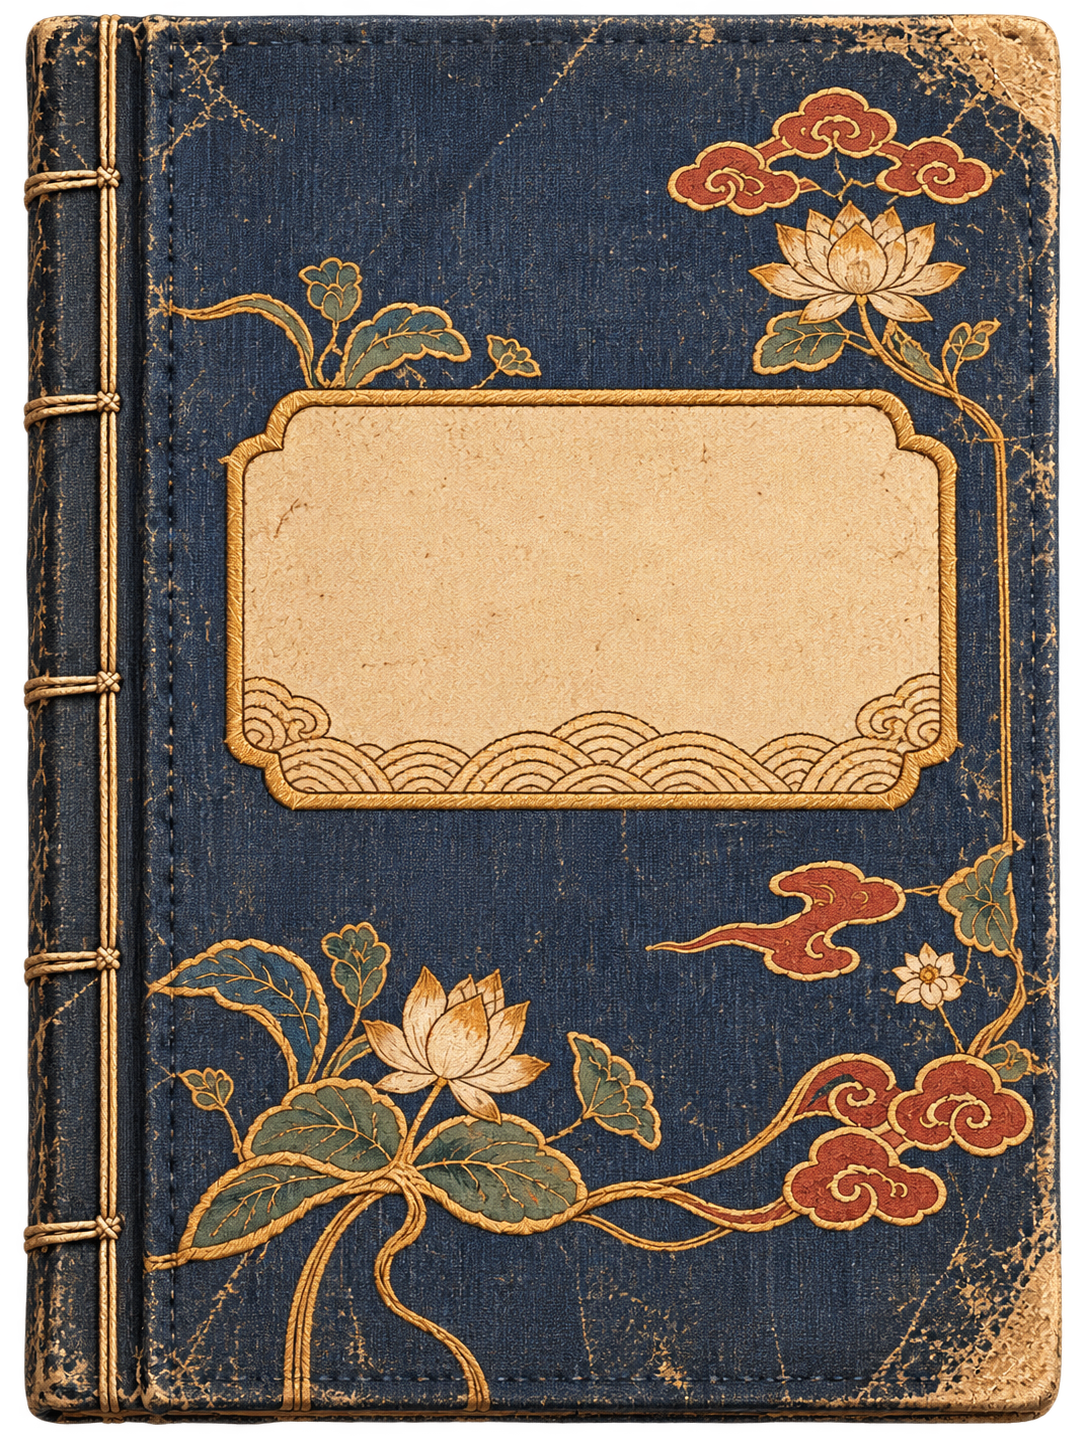
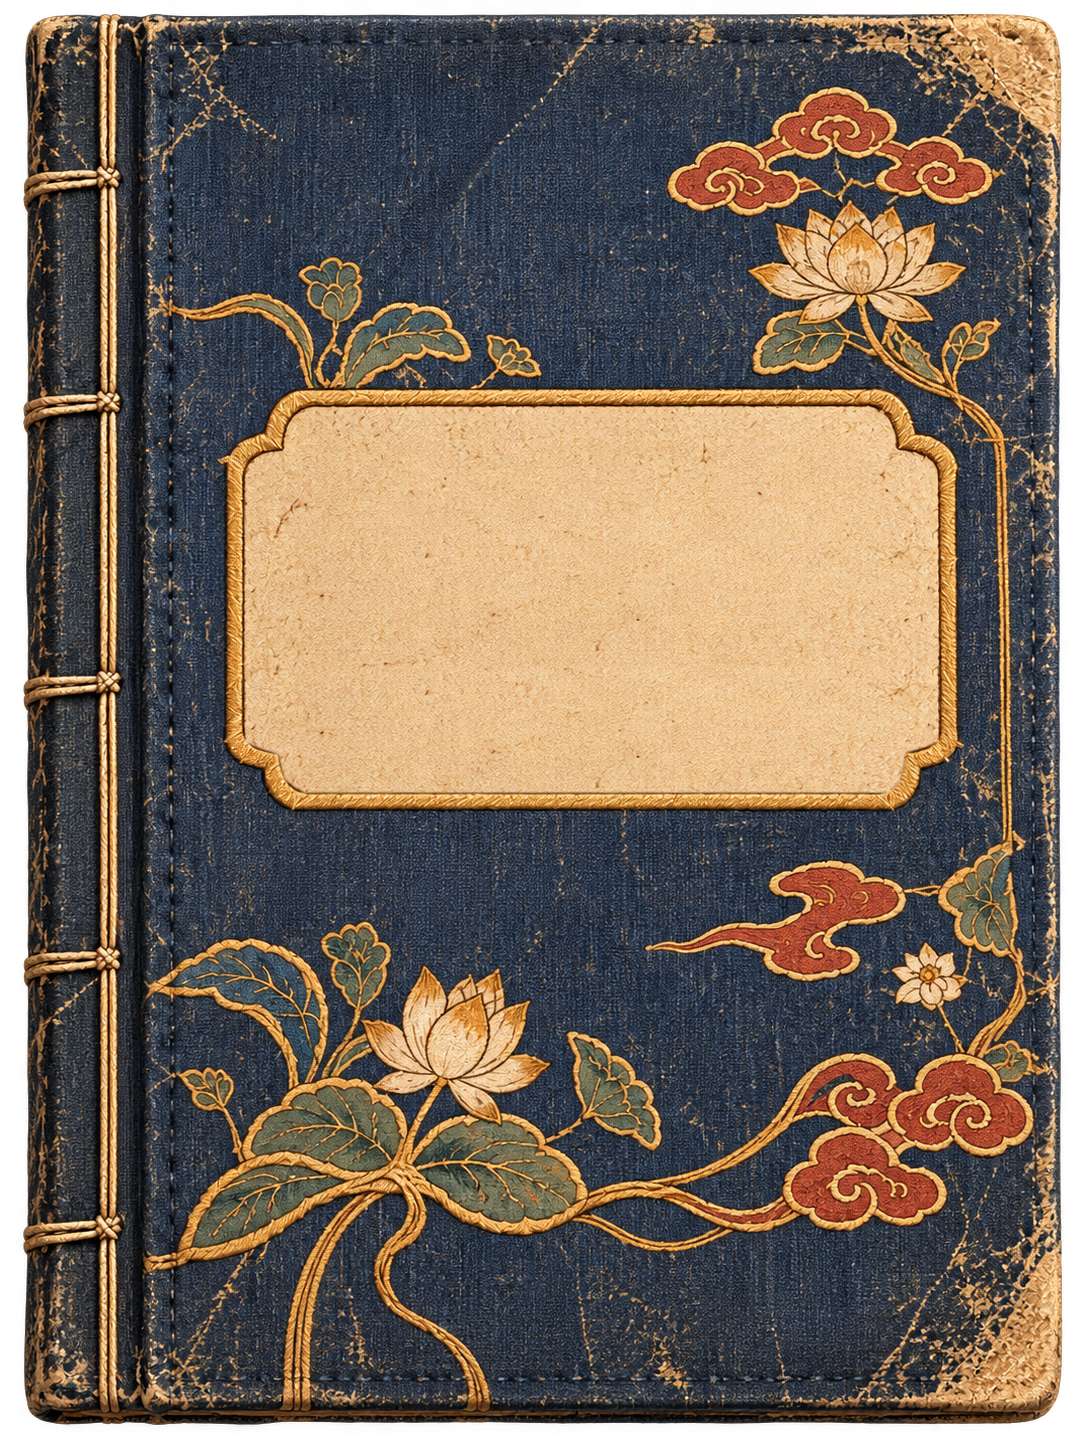
Opening S08 and book cover: remove seigaiha wave band from the label (#7)
The wave band inside the cover label read as Japanese seigaiha. It is
painted over with the label's own cream paper, so the rest of both images
is pixel-identical and the label position in BookCover.tsx is unchanged.
S05's red áo closure is kept: in the three-quarter view the straight
run of buttons is the side seam. ART_PROMPTS adds seigaiha to AVOID and
renumbers the duplicate section 9 to 12.

Changed region(s): [[0.2127, 0.4662, 0.8812, 0.5594]]

diff --git a/frontend/docs/ART_PROMPTS.md b/frontend/docs/ART_PROMPTS.md
@@ -25,7 +25,7 @@ Modern full-color comic illustration for a Vietnamese storybook. Clean, confiden
 ```
 
 ```
-AVOID: any text, letters, numbers, captions, logos or watermarks; Chinese, Japanese or Korean traditional clothing, hairstyles or architecture (no hanfu cross collars, no kimono or obi, no hanbok, no pagoda roofs with upturned Chinese-style eaves unless specified; no Chinese frog buttons or knotted "pankou" closures; no Chinese mandarin-collar jackets or qipao styling); 3D render look; photorealism; neon colors; heavy black outlines; cluttered backgrounds.
+AVOID: any text, letters, numbers, captions, logos or watermarks; Chinese, Japanese or Korean traditional clothing, hairstyles or architecture (no hanfu cross collars, no kimono or obi, no hanbok, no pagoda roofs with upturned Chinese-style eaves unless specified; no Chinese frog buttons or knotted "pankou" closures; no Chinese mandarin-collar jackets or qipao styling; no Japanese seigaiha overlapping-semicircle wave pattern); 3D render look; photorealism; neon colors; heavy black outlines; cluttered backgrounds.
 ```
 
 | Màu | Mã | Dùng cho |
@@ -159,7 +159,7 @@ Tỉ lệ 3:4 · file: frontend/public/book/cover.png
 Front cover of an old hand-made seamstress's notebook, seen straight on, filling the frame.
 Cover material: faded indigo linen cloth, slightly worn corners, a few loose threads.
 Decoration: delicate gold-thread embroidery border of small lotus leaves, sewing scissors and a spool of thread; a small sky-blue fabric swatch stitched onto the lower right corner.
-Center area: a plain embroidered rectangular label frame left EMPTY for the title (no text).
+Center area: a plain embroidered rectangular label frame left EMPTY for the title (no text, no wave or other pattern inside the label).
 A cream ribbon bookmark hangs from the bottom edge. Soft warm light from the upper left.
 ```
 
@@ -527,7 +527,7 @@ Color: {màu mặc định}. No person, no accessories, no text.
 - Màu nằm trong bảng màu Mục 1; chỗ trống cho chữ và bong bóng thoại đúng vị trí.
 - Đã lưu prompt + ảnh được chọn vào tab Tổng hợp Prompt.
 
-## 9. Tạo lại ảnh Opening S05 và S08 (ticket #7)
+## 12. Tạo lại ảnh Opening S05 và S08 (ticket #7)
 
 Hai ảnh hiện tại có yếu tố Trung Hoa, mâu thuẫn với chính thông điệp của app:
 - `s05.png`: áo đỏ trên ma-nơ-canh và áo đang may có **khuy tết kiểu áo Tàu** (frog buttons). Áo của Bà và của Tí cũng dùng kiểu khuy này.
@@ -542,7 +542,7 @@ Hai ảnh hiện tại có yếu tố Trung Hoa, mâu thuẫn với chính thôn
 4. Người phụ trách nội dung soát theo checklist bên dưới và đối chiếu Research 6.2 trước khi thay file.
 5. Thay `frontend/public/opening/s05.png`, `s08.png`, rồi bỏ ⚠ của S05 và S08 trong bảng ở `OPENING_PLAN.md`.
 
-### 9.1 S05 — Tiếng máy may bên cửa sổ (ký ức)
+### 12.1 S05 — Tiếng máy may bên cửa sổ (ký ức)
 
 ```
 {STYLE}
@@ -562,14 +562,15 @@ No text anywhere.
 - [ ] Áo trên ma-nơ-canh có cấu trúc áo ngũ thân: cổ đứng thấp, vạt cài chéo sang phải, xẻ tà, dài qua gối.
 - [ ] Bố cục, nhân vật, hai khung cut-in giữ như cũ (chuyển cảnh T4, T5 không đổi).
 
-### 9.2 S08 — Việt Phục Du Ký
+### 12.2 S08 — Việt Phục Du Ký
 
 ```
 {STYLE}
 {AVOID}
 Recreate the attached scene with the same composition: Tí holding an old embroidered notebook, a cut-in of golden thread.
 The notebook cover must match the second reference image (title page) exactly: indigo fabric, the same embroidered
-lotus-and-cloud border, the same empty cream label in the same place. The label stays EMPTY (the title is added in HTML).
+lotus-and-cloud border, the same empty cream label in the same place. The label stays EMPTY (the title is added in HTML):
+plain cream paper inside the gold frame, no wave band or other pattern.
 Remove the curved-roof pagoda: if the corner needs a motif, use lotus leaves or a Vietnamese village communal-house
 roof with gently curved Vietnamese eaves, or leave it plain.
 The blue garment on the dress form in the background: a Vietnamese áo dài with small plain buttons, no frog buttons.
@@ -577,8 +578,13 @@ No text anywhere.
 ```
 
 **Checklist soát S08:**
-- [ ] Bìa sổ khớp `title-page.png` (màu chàm, hoa văn viền, vị trí ô nhãn), ô nhãn để trống.
+- [ ] Bìa sổ khớp `title-page.png` (màu chàm, hoa văn viền, vị trí ô nhãn), ô nhãn để trống, không có dải sóng.
 - [ ] Không còn chùa mái cong kiểu Trung Hoa hay họa tiết Trung Hoa khác.
 - [ ] Áo trên ma-nơ-canh phía sau không có khuy tết.
 - [ ] Chuyển cảnh T7 (zoom vào góc bìa S07 → S08) và T8 (bìa xoay mở) chạy không giật: xem `/?opening=1&start=s07`.
+
+### 12.3 Vòng soát 2 (30/09)
+
+- **Dải sóng trong ô nhãn** (`title-page.png` và `s08.png`) giống sóng seigaiha của Nhật nên đã bỏ. Không tạo lại bằng AI vì bản AI làm lệch khung nhãn và mất nền trong suốt của bìa. Thay vào đó, dải sóng được phủ bằng giấy kem lấy từ phía trên ô nhãn trong chính ảnh gốc, nên phần còn lại giữ nguyên từng pixel và vị trí ô nhãn trong `BookCover.tsx` không đổi. AVOID đã thêm seigaiha.
+- **Vạt áo đỏ ở cut-in S05:** giữ nguyên. Ma-nơ-canh quay nghiêng ba phần tư và tay Tí che sườn phải, nên đoạn khuy chạy thẳng xuống là đường sườn nhìn nghiêng, không phải đường cài giữa ngực. Đã thử sửa bằng Nano Banana (6 bản), không bản nào rõ hơn ảnh gốc. Nếu cần vẽ lại, cho ma-nơ-canh quay thẳng mặt để thấy vạt đi tới nách phải.
 

diff --git a/frontend/docs/OPENING_PLAN.md b/frontend/docs/OPENING_PLAN.md
@@ -21,13 +21,13 @@ Tên file ảnh đang lệch số với kịch bản (không có Screen-6, có S
 | S02 "Tại sao?" | Screen-2.png | Cùng lớp học, 3 bong bóng ý nghĩ (áo dài, nón lá, dải lụa), cut-in Tí | Khung cảnh trùng S01 → dùng được cú "match cut" |
 | S03 Một Việt Nam mình chưa biết | Screen-3.png | Laptop, 6 card trang phục, 3 cut-in Tí | Card nào là trang phục nào cần B xác nhận để làm spotlight đúng tên |
 | S04 Chiếc áo màu xanh | Screen-4.png | Đêm, đèn bàn, laptop áo dài xanh, cut-in mắt Tí | – |
-| S05 Tiếng máy may | Screen-5.png | Bà may áo, Tí nhỏ, 2 cut-in | ✅ Đã tạo lại (29/09): bỏ khuy tết trên mọi áo; áo đỏ theo cấu trúc áo ngũ thân, Bà mặc áo cánh, Tí mặc sơ mi cổ bẻ. Chờ người phụ trách nội dung đối chiếu Research 6.2 |
+| S05 Tiếng máy may | Screen-5.png | Bà may áo, Tí nhỏ, 2 cut-in | ✅ Đã tạo lại (29/09): bỏ khuy tết trên mọi áo; áo đỏ theo cấu trúc áo ngũ thân, Bà mặc áo cánh, Tí mặc sơ mi cổ bẻ. Soát lại 30/09: vạt áo đỏ ở cut-in giữ nguyên (nhìn nghiêng ba phần tư, đoạn khuy thẳng là đường sườn) |
 | S06 "Chúng còn để nhớ" | Screen-7.png | Bà trẻ áo dài xanh, bà già cất áo vào hộp, Tí nhỏ; nửa phải là khoảng trống | Khoảng trống bên phải rất hợp để đặt 4 câu thoại |
 | S07 Căn nhà cũ | Screen-8.png | Ba nhịp ngang: cổng → phòng may → hộp gỗ | Bố cục ngang → dùng camera pan thay cho parallax 3 lớp |
-| S08 Việt Phục Du Ký | Screen-9.png | Tí cầm cuốn sổ, ô nhãn trống, cut-in chỉ thêu | ✅ Đã tạo lại (29/09): bìa khớp title-page, bỏ chùa mái cong; áo trên ma-nơ-canh và trong khung ảnh là áo dài, không khuy tết. Chờ người phụ trách nội dung xác nhận |
+| S08 Việt Phục Du Ký | Screen-9.png | Tí cầm cuốn sổ, ô nhãn trống, cut-in chỉ thêu | ✅ Đã tạo lại (29/09): bìa khớp title-page, bỏ chùa mái cong; áo trên ma-nơ-canh và trong khung ảnh là áo dài, không khuy tết. 30/09: bỏ dải sóng kiểu seigaiha trong ô nhãn |
 | S09 Những trang chưa viết xong | Screen-10.png | Sách mở: 4 phác thảo vùng + trang trống bên phải, sợi chỉ vàng | – |
 | S10 Hành trình bắt đầu | Screen-11.png | Vòng xoáy giấy/vải, Tí cầm bookmark, làng hội Kinh Bắc | – |
-| Bìa sách chính | page/title-page.png | Bìa vải chàm tách nền, ô nhãn trống | ✅ Đã gắn vào web |
+| Bìa sách chính | page/title-page.png | Bìa vải chàm tách nền, ô nhãn trống | ✅ Đã gắn vào web. 30/09: bỏ dải sóng kiểu seigaiha trong ô nhãn |
 
 **Phong cách:** các screen vẽ nhân vật hơi chibi, trong khi khối STYLE ở tab Art Bible ghi "not chibi". Cần sửa khối STYLE theo đúng các screen này để những ảnh tạo sau (bàn may, stamp, avatar Compass) cùng một giọng vẽ.
 
